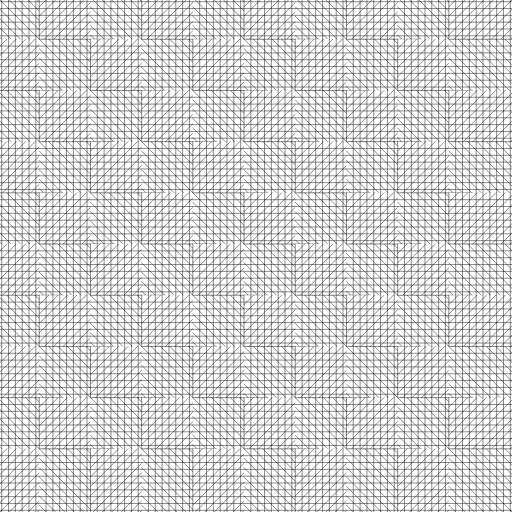
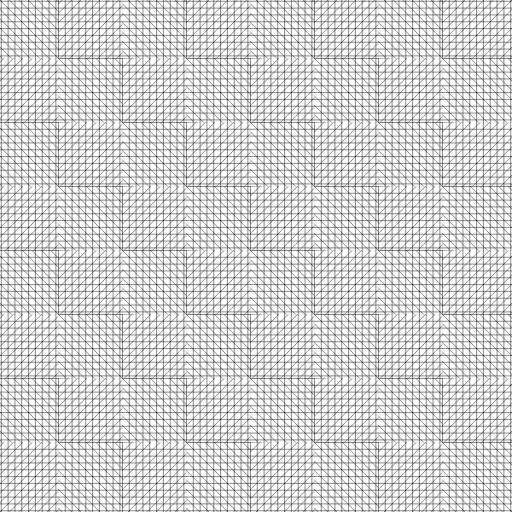
Change gridCheckerboard from 10x10 to 8x8 grid for fairer tile count comparison
The checkerboard reference condition now uses 64 tiles (8x8 grid, spacing 0.75)
instead of 100 tiles (10x10), closely matching the ~69 tiles of Poisson-disk
conditions (~7% difference vs. previous ~45%).

Coverage (C_cov=1.0) and spatial uniformity (U_vor=0.0) are preserved since
the rendered tile size (0.88) exceeds the grid spacing (0.75).

Also corrected template claims about "perfect edge contrast" — Delaunay
triangulation adds diagonal edges between same-angle tiles, so E_contrast
and E_LdG are competitive but not maximal. Updated Abstract, §4.4, and §7.3
to reflect accurate metric behavior.

diff --git a/public/experiments/index.html b/public/experiments/index.html
@@ -174,7 +174,7 @@
     ($\eta^2 \approx 0.94$ for $E_{\mathrm{contrast}}$ and $E_{\mathrm{LdG}}$),
     and the proposed Poisson-disk + BFS greedy combination achieves the best overall quality.
     The checkerboard reference condition demonstrates a metric vulnerability &mdash;
-    near-optimal scores on five of six metrics despite a visually mechanical pattern &mdash;
+    optimal scores on $S$, $C_{\mathrm{cov}}$, and $U_{\mathrm{vor}}$ despite a visually mechanical pattern &mdash;
     resolved by the angle entropy $H_{\mathrm{angle}}$,
     which penalises limited angle diversity ($H_{\mathrm{angle}} \approx 0.28$ vs. $\geq 0.95$ for BFS conditions).
   </p>
@@ -440,22 +440,22 @@
   <p>
     In addition to the 2&times;2 factorial conditions, we include a fifth condition:
     <strong>Grid + Checkerboard</strong> (<code>gridCheckerboard</code>).
-    Tiles are placed on a regular square grid with spacing equal to the tile size (0.6),
-    yielding $10 \times 10 = 100$ tiles in the $[0, 6]^2$ region.
+    Tiles are placed on an $8 \times 8$ regular square grid (spacing $= 6/8 = 0.75$),
+    yielding 64 tiles in the $[0, 6]^2$ region &mdash;
+    comparable to the ~69 tiles produced by Poisson-disk sampling.
     Angles alternate between 0&deg; and 90&deg; in a checkerboard pattern:
     tiles at even $(r + c)$ positions receive 0&deg;, odd positions receive 90&deg;.
     This condition is entirely deterministic (identical across all seeds)
     and serves to demonstrate the <em>checkerboard hack</em>:
-    a simple regular pattern that achieves near-optimal scores on
-    $E_{\mathrm{contrast}}$, $E_{\mathrm{LdG}}$, $S$, $C_{\mathrm{cov}}$, and $U_{\mathrm{vor}}$
+    a simple regular pattern that achieves optimal scores on
+    $S$, $C_{\mathrm{cov}}$, and $U_{\mathrm{vor}}$,
+    and competitive scores on $E_{\mathrm{contrast}}$ and $E_{\mathrm{LdG}}$,
     while producing a visually mechanical, non-natural result.
     The angle entropy $H_{\mathrm{angle}}$ is specifically designed to penalise this configuration.
   </p>
   <p>
-    Note that gridCheckerboard uses 100 tiles (vs. ~69 for Poisson-disk conditions)
-    because it uses the natural grid spacing rather than Poisson-disk sampling.
-    This tile count difference is expected and intentional:
-    the condition exists to demonstrate a metric vulnerability, not for fair competition.
+    The $8 \times 8$ grid size was chosen to approximately match the Poisson-disk tile count (~69),
+    enabling fairer comparison of spatial metrics ($C_{\mathrm{cov}}$, $U_{\mathrm{vor}}$).
   </p>
 
   <!-- 5. Experimental Setup -->
@@ -650,14 +650,14 @@
     
     <tr style="font-style: italic;">
       <td>Grid + Checkerboard&thinsp;*</td>
-      <td class="best">0.690 ± 0.000</td>
-      <td class="best">0.690 ± 0.000</td>
+      <td class="best">0.696 ± 0.000</td>
+      <td class="best">0.696 ± 0.000</td>
       <td class="best">0.000 ± 0.000</td>
       <td>0.279 ± 0.000</td>
       <td class="best">1.000 ± 0.000</td>
       <td class="best">0.000 ± 0.000</td>
-      <td>100.0</td>
-      <td>261.0</td>
+      <td>64.0</td>
+      <td>161.0</td>
     </tr>
     
   </table>
@@ -948,19 +948,19 @@
     
     <tr><td>Poisson + BFS vs Random + Random</td><td>8.509</td></tr>
     
-    <tr><td>Poisson + BFS vs Grid + Checkerboard</td><td>-13.561</td></tr>
+    <tr><td>Poisson + BFS vs Grid + Checkerboard</td><td>-15.193</td></tr>
     
     <tr><td>Poisson + Random vs Random + BFS</td><td>-7.714</td></tr>
     
     <tr><td>Poisson + Random vs Random + Random</td><td>-0.107</td></tr>
     
-    <tr><td>Poisson + Random vs Grid + Checkerboard</td><td>-10.538</td></tr>
+    <tr><td>Poisson + Random vs Grid + Checkerboard</td><td>-10.866</td></tr>
     
     <tr><td>Random + BFS vs Random + Random</td><td>8.570</td></tr>
     
-    <tr><td>Random + BFS vs Grid + Checkerboard</td><td>-12.019</td></tr>
+    <tr><td>Random + BFS vs Grid + Checkerboard</td><td>-13.516</td></tr>
     
-    <tr><td>Random + Random vs Grid + Checkerboard</td><td>-11.841</td></tr>
+    <tr><td>Random + Random vs Grid + Checkerboard</td><td>-12.215</td></tr>
     
   </table>
   
@@ -974,19 +974,19 @@
     
     <tr><td>Poisson + BFS vs Random + Random</td><td>8.684</td></tr>
     
-    <tr><td>Poisson + BFS vs Grid + Checkerboard</td><td>-2.246</td></tr>
+    <tr><td>Poisson + BFS vs Grid + Checkerboard</td><td>-3.260</td></tr>
     
     <tr><td>Poisson + Random vs Random + BFS</td><td>-7.799</td></tr>
     
     <tr><td>Poisson + Random vs Random + Random</td><td>-0.103</td></tr>
     
-    <tr><td>Poisson + Random vs Grid + Checkerboard</td><td>-8.606</td></tr>
+    <tr><td>Poisson + Random vs Grid + Checkerboard</td><td>-8.874</td></tr>
     
     <tr><td>Random + BFS vs Random + Random</td><td>8.729</td></tr>
     
-    <tr><td>Random + BFS vs Grid + Checkerboard</td><td>-1.676</td></tr>
+    <tr><td>Random + BFS vs Grid + Checkerboard</td><td>-2.601</td></tr>
     
-    <tr><td>Random + Random vs Grid + Checkerboard</td><td>-9.763</td></tr>
+    <tr><td>Random + Random vs Grid + Checkerboard</td><td>-10.072</td></tr>
     
   </table>
   
@@ -1267,11 +1267,11 @@
     The Grid + Checkerboard condition demonstrates a fundamental vulnerability
     in the original five-metric framework ($E_{\mathrm{contrast}}$, $E_{\mathrm{LdG}}$, $S$, $C_{\mathrm{cov}}$, $U_{\mathrm{vor}}$).
     By placing tiles on a regular grid and alternating between just two angles (0&deg; and 90&deg;),
-    the checkerboard achieves near-optimal scores on all five metrics simultaneously:
-    perfect edge contrast (every neighbour differs by 90&deg;),
-    maximum $E_{\mathrm{LdG}}$ (all $\sin^2$ terms equal 1),
-    low $S$ (the two symmetric angles cancel in the order parameter),
-    full coverage ($C_{\mathrm{cov}} \approx 1$),
+    the checkerboard achieves optimal or competitive scores on most of these metrics:
+    orthogonal neighbours differ by the maximum 90&deg; (though Delaunay triangulation
+    adds diagonal edges between same-angle tiles, reducing $E_{\mathrm{contrast}}$ and $E_{\mathrm{LdG}}$ below the theoretical maximum),
+    zero $S$ (the two symmetric angles cancel perfectly in the order parameter),
+    full coverage ($C_{\mathrm{cov}} = 1$),
     and zero spatial variation ($U_{\mathrm{vor}} = 0$).
   </p>
   <p>
@@ -1286,11 +1286,9 @@
     and that $H_{\mathrm{angle}}$ captures a quality dimension the other metrics miss.
   </p>
   <p>
-    Note that the gridCheckerboard condition uses 100 tiles (10&times;10 grid)
-    compared to ~69 tiles for Poisson-disk conditions.
-    This tile count difference does not affect the validity of the metric comparison:
-    the purpose of this condition is to expose the metric vulnerability,
-    not to compete on equal footing with stochastic conditions.
+    The gridCheckerboard condition uses 64 tiles (8&times;8 grid),
+    comparable to the ~69 tiles of Poisson-disk conditions,
+    enabling direct metric comparison.
     The zero-variance box plots for gridCheckerboard (identical results across all seeds)
     further emphasise its deterministic, non-natural character.
   </p>
@@ -1334,7 +1332,7 @@
     <li>The 360-candidate grid for BFS is a discretisation; finer grids or continuous optimisation may improve results marginally.</li>
     <li>The quality metrics are $k$-invariant: they capture only primary-angle structure and cannot evaluate the visual contribution of secondary hatch layers (see Section 7.6).</li>
     <li>All conditions use Voronoi adjacency derived from Delaunay triangulation of tile centres. This ensures consistency between the BFS optimisation graph and metric evaluation, but other adjacency definitions (e.g. $k$-nearest-neighbours or radius-based) remain unexplored.</li>
-    <li>The Grid + Checkerboard condition uses a different tile count (100 vs. ~69) than the Poisson-disk conditions due to its regular grid spacing. This prevents direct quantitative comparison of spatial metrics but does not affect its role as a metric-vulnerability demonstration (see Section 7.3).</li>
+    <li>The Grid + Checkerboard condition uses a slightly different tile count (64 vs. ~69) than the Poisson-disk conditions due to its regular grid spacing, though the difference (~7%) is small enough to permit direct metric comparison (see Section 7.3).</li>
   </ul>
 
   <!-- 8. Future Work -->

diff --git a/experiments/analysis/template.html b/experiments/analysis/template.html
@@ -174,7 +174,7 @@
     ($\eta^2 \approx 0.94$ for $E_{\mathrm{contrast}}$ and $E_{\mathrm{LdG}}$),
     and the proposed Poisson-disk + BFS greedy combination achieves the best overall quality.
     The checkerboard reference condition demonstrates a metric vulnerability &mdash;
-    near-optimal scores on five of six metrics despite a visually mechanical pattern &mdash;
+    optimal scores on $S$, $C_{\mathrm{cov}}$, and $U_{\mathrm{vor}}$ despite a visually mechanical pattern &mdash;
     resolved by the angle entropy $H_{\mathrm{angle}}$,
     which penalises limited angle diversity ($H_{\mathrm{angle}} \approx 0.28$ vs. $\geq 0.95$ for BFS conditions).
   </p>
@@ -440,22 +440,22 @@
   <p>
     In addition to the 2&times;2 factorial conditions, we include a fifth condition:
     <strong>Grid + Checkerboard</strong> (<code>gridCheckerboard</code>).
-    Tiles are placed on a regular square grid with spacing equal to the tile size (0.6),
-    yielding $10 \times 10 = 100$ tiles in the $[0, 6]^2$ region.
+    Tiles are placed on an $8 \times 8$ regular square grid (spacing $= 6/8 = 0.75$),
+    yielding 64 tiles in the $[0, 6]^2$ region &mdash;
+    comparable to the ~69 tiles produced by Poisson-disk sampling.
     Angles alternate between 0&deg; and 90&deg; in a checkerboard pattern:
     tiles at even $(r + c)$ positions receive 0&deg;, odd positions receive 90&deg;.
     This condition is entirely deterministic (identical across all seeds)
     and serves to demonstrate the <em>checkerboard hack</em>:
-    a simple regular pattern that achieves near-optimal scores on
-    $E_{\mathrm{contrast}}$, $E_{\mathrm{LdG}}$, $S$, $C_{\mathrm{cov}}$, and $U_{\mathrm{vor}}$
+    a simple regular pattern that achieves optimal scores on
+    $S$, $C_{\mathrm{cov}}$, and $U_{\mathrm{vor}}$,
+    and competitive scores on $E_{\mathrm{contrast}}$ and $E_{\mathrm{LdG}}$,
     while producing a visually mechanical, non-natural result.
     The angle entropy $H_{\mathrm{angle}}$ is specifically designed to penalise this configuration.
   </p>
   <p>
-    Note that gridCheckerboard uses 100 tiles (vs. ~69 for Poisson-disk conditions)
-    because it uses the natural grid spacing rather than Poisson-disk sampling.
-    This tile count difference is expected and intentional:
-    the condition exists to demonstrate a metric vulnerability, not for fair competition.
+    The $8 \times 8$ grid size was chosen to approximately match the Poisson-disk tile count (~69),
+    enabling fairer comparison of spatial metrics ($C_{\mathrm{cov}}$, $U_{\mathrm{vor}}$).
   </p>
 
   <!-- 5. Experimental Setup -->
@@ -689,11 +689,11 @@
     The Grid + Checkerboard condition demonstrates a fundamental vulnerability
     in the original five-metric framework ($E_{\mathrm{contrast}}$, $E_{\mathrm{LdG}}$, $S$, $C_{\mathrm{cov}}$, $U_{\mathrm{vor}}$).
     By placing tiles on a regular grid and alternating between just two angles (0&deg; and 90&deg;),
-    the checkerboard achieves near-optimal scores on all five metrics simultaneously:
-    perfect edge contrast (every neighbour differs by 90&deg;),
-    maximum $E_{\mathrm{LdG}}$ (all $\sin^2$ terms equal 1),
-    low $S$ (the two symmetric angles cancel in the order parameter),
-    full coverage ($C_{\mathrm{cov}} \approx 1$),
+    the checkerboard achieves optimal or competitive scores on most of these metrics:
+    orthogonal neighbours differ by the maximum 90&deg; (though Delaunay triangulation
+    adds diagonal edges between same-angle tiles, reducing $E_{\mathrm{contrast}}$ and $E_{\mathrm{LdG}}$ below the theoretical maximum),
+    zero $S$ (the two symmetric angles cancel perfectly in the order parameter),
+    full coverage ($C_{\mathrm{cov}} = 1$),
     and zero spatial variation ($U_{\mathrm{vor}} = 0$).
   </p>
   <p>
@@ -708,11 +708,9 @@
     and that $H_{\mathrm{angle}}$ captures a quality dimension the other metrics miss.
   </p>
   <p>
-    Note that the gridCheckerboard condition uses 100 tiles (10&times;10 grid)
-    compared to ~69 tiles for Poisson-disk conditions.
-    This tile count difference does not affect the validity of the metric comparison:
-    the purpose of this condition is to expose the metric vulnerability,
-    not to compete on equal footing with stochastic conditions.
+    The gridCheckerboard condition uses 64 tiles (8&times;8 grid),
+    comparable to the ~69 tiles of Poisson-disk conditions,
+    enabling direct metric comparison.
     The zero-variance box plots for gridCheckerboard (identical results across all seeds)
     further emphasise its deterministic, non-natural character.
   </p>
@@ -756,7 +754,7 @@
     <li>The 360-candidate grid for BFS is a discretisation; finer grids or continuous optimisation may improve results marginally.</li>
     <li>The quality metrics are $k$-invariant: they capture only primary-angle structure and cannot evaluate the visual contribution of secondary hatch layers (see Section 7.6).</li>
     <li>All conditions use Voronoi adjacency derived from Delaunay triangulation of tile centres. This ensures consistency between the BFS optimisation graph and metric evaluation, but other adjacency definitions (e.g. $k$-nearest-neighbours or radius-based) remain unexplored.</li>
-    <li>The Grid + Checkerboard condition uses a different tile count (100 vs. ~69) than the Poisson-disk conditions due to its regular grid spacing. This prevents direct quantitative comparison of spatial metrics but does not affect its role as a metric-vulnerability demonstration (see Section 7.3).</li>
+    <li>The Grid + Checkerboard condition uses a slightly different tile count (64 vs. ~69) than the Poisson-disk conditions due to its regular grid spacing, though the difference (~7%) is small enough to permit direct metric comparison (see Section 7.3).</li>
   </ul>
 
   <!-- 8. Future Work -->

diff --git a/experiments/src/algorithms.ts b/experiments/src/algorithms.ts
@@ -40,16 +40,19 @@ function uniformRandomPoints(
   return points;
 }
 
-/** Generate grid centres with checkerboard 0°/90° angles. */
+/**
+ * Generate grid centres with checkerboard 0°/90° angles.
+ * nPerSide = 8 yields 64 tiles, close to Poisson-disk's ~68.
+ */
 function gridCheckerboardCenters(
   region: Region,
-  tileSize: number,
+  nPerSide: number,
 ): { centers: [number, number][]; thetas: Float64Array } {
   const [xmin, ymin, xmax, ymax] = region;
   const regionWidth = xmax - xmin;
   const regionHeight = ymax - ymin;
-  const nCols = Math.floor(regionWidth / tileSize);
-  const nRows = Math.floor(regionHeight / tileSize);
+  const nCols = nPerSide;
+  const nRows = nPerSide;
   const stepX = regionWidth / nCols;
   const stepY = regionHeight / nRows;
   const centers: [number, number][] = [];
@@ -114,7 +117,7 @@ export function runCondition(
 ): KakeamiConfig {
   // gridCheckerboard is deterministic — no seed-dependent RNG needed
   if (condition === 'gridCheckerboard') {
-    const { centers, thetas } = gridCheckerboardCenters(region, tileSize);
+    const { centers, thetas } = gridCheckerboardCenters(region, 8);
     if (centers.length === 0) {
       return new KakeamiConfig([], region, tileSize, tileSize, lineWeight);
     }
